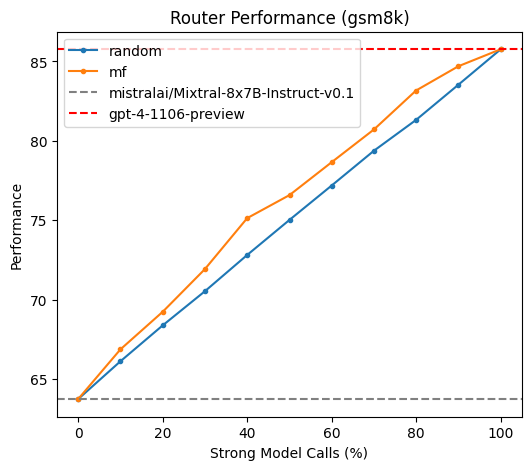
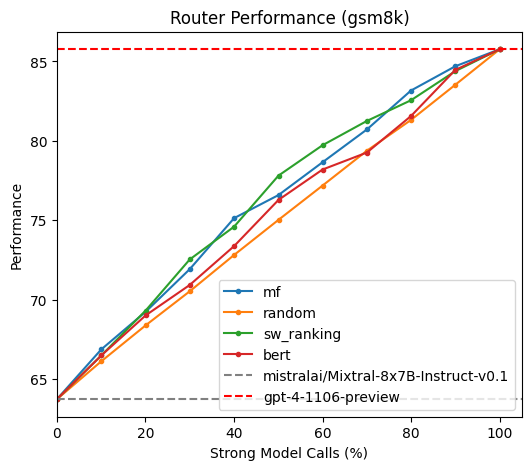
update path and plots

diff --git a/routellm/controller.py b/routellm/controller.py
@@ -18,7 +18,7 @@ litellm.drop_params = True
 GPT_4_AUGMENTED_CONFIG = {
     "sw_ranking": {
         "arena_battle_datasets": [
-            "routellm/lmsys-arena-human-preference-55k-thresholds",
+            "lmsys/lmsys-arena-human-preference-55k",
             "routellm/gpt4_judge_battles",
         ],
         "arena_embedding_datasets": [

diff --git a/routellm/evals/evaluate.py b/routellm/evals/evaluate.py
@@ -67,6 +67,7 @@ def generate_results(
 
     plt.xlabel("Strong Model Calls (%)")
     plt.ylabel("Performance")
+    plt.xlim(xmin=0)
     plt.title(f"Router Performance ({benchmark_name})")
     plt.legend()
 
